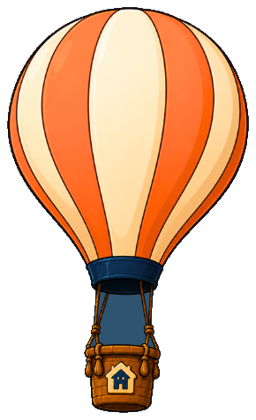
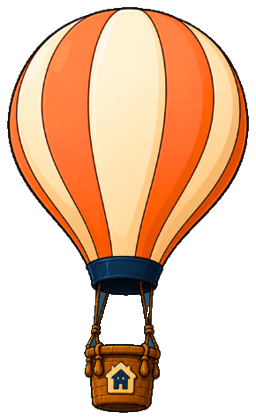
Add flanking rhinos to pricing panel + hero balloon cleanup
Dancing rhino (left) and jumping rhino (right) framing the "איך מצטרפים"
pricing card, enlarged pillar mascots, and a cleaned hot-air balloon
(removed trapped navy between ropes) nudged higher in the hero.

Changed region(s): [[0.375, 0.681, 0.5938, 0.8357]]

diff --git a/src/pages/CourseLandingPage.tsx b/src/pages/CourseLandingPage.tsx
@@ -24,6 +24,8 @@ import pillarConsult from "@/assets/derech/pillar-consult.png";
 import pillarCalc from "@/assets/derech/pillar-calc.png";
 import pillarLearn from "@/assets/derech/pillar-learn.png";
 import syllabusRhino from "@/assets/derech/syllabus-rhino.png";
+import dancingRhino from "@/assets/derech/dancing-rhino.png";
+import jumpingRhino from "@/assets/derech/jumping-rhino.png";
 
 /* ────────────────────────────────────────────────────────────
    תשלום — מוכן לחיבור.
@@ -337,7 +339,7 @@ const CourseLandingPage = () => {
           src={decoBalloon}
           alt=""
           aria-hidden
-          className="absolute bottom-[16%] -left-14 z-[6] hidden w-28 object-contain sm:block md:-left-20 md:w-40"
+          className="absolute bottom-[31%] -left-14 z-[6] hidden w-28 object-contain sm:block md:-left-20 md:w-40"
           animate={reduce ? undefined : { y: [0, 16, 0] }}
           transition={{ duration: 8, repeat: Infinity, ease: "easeInOut" }}
         />
@@ -440,11 +442,11 @@ const CourseLandingPage = () => {
                     transition={{ duration: 1.6, repeat: Infinity, ease: "easeInOut" }}
                   >
                     <div className="bezel-inner blueprint-corners flex h-full flex-col items-center bg-card p-7 text-center lg:p-8">
-                      <div className="mb-5 flex h-40 items-end justify-center">
+                      <div className="mb-5 flex h-48 items-end justify-center">
                         <img
                           src={p.img}
                           alt={p.title}
-                          className="max-h-40 w-auto object-contain drop-shadow-[0_14px_24px_rgba(20,30,60,0.18)]"
+                          className="max-h-48 w-auto object-contain drop-shadow-[0_14px_24px_rgba(20,30,60,0.18)]"
                           loading="lazy"
                           decoding="async"
                         />
@@ -652,8 +654,29 @@ const CourseLandingPage = () => {
       </section>
 
       {/* ===================== הצטרפות / תשלום ===================== */}
-      <section id="pricing" className="pb-section-md md:pb-section-lg">
-        <div className="container mx-auto max-w-2xl px-5 md:px-6">
+      <section
+        id="pricing"
+        className="pb-section-md md:pb-section-lg relative overflow-hidden"
+      >
+        {/* קרנף רוקד — משמאל לפאנל */}
+        <img
+          src={dancingRhino}
+          alt=""
+          aria-hidden
+          className="pointer-events-none absolute bottom-28 left-[8%] z-0 hidden w-36 object-contain lg:bottom-40 lg:block xl:w-44"
+          loading="lazy"
+          decoding="async"
+        />
+        {/* קרנפית קופצת — מימין לפאנל */}
+        <img
+          src={jumpingRhino}
+          alt=""
+          aria-hidden
+          className="pointer-events-none absolute bottom-28 right-[10%] z-0 hidden w-32 object-contain lg:bottom-40 lg:block xl:w-40"
+          loading="lazy"
+          decoding="async"
+        />
+        <div className="container relative z-10 mx-auto max-w-2xl px-5 md:px-6">
           <Reveal className="mb-8 text-center">
             <SectionHeading size="lg" glow>
               איך <Orange>מצטרפים?</Orange>